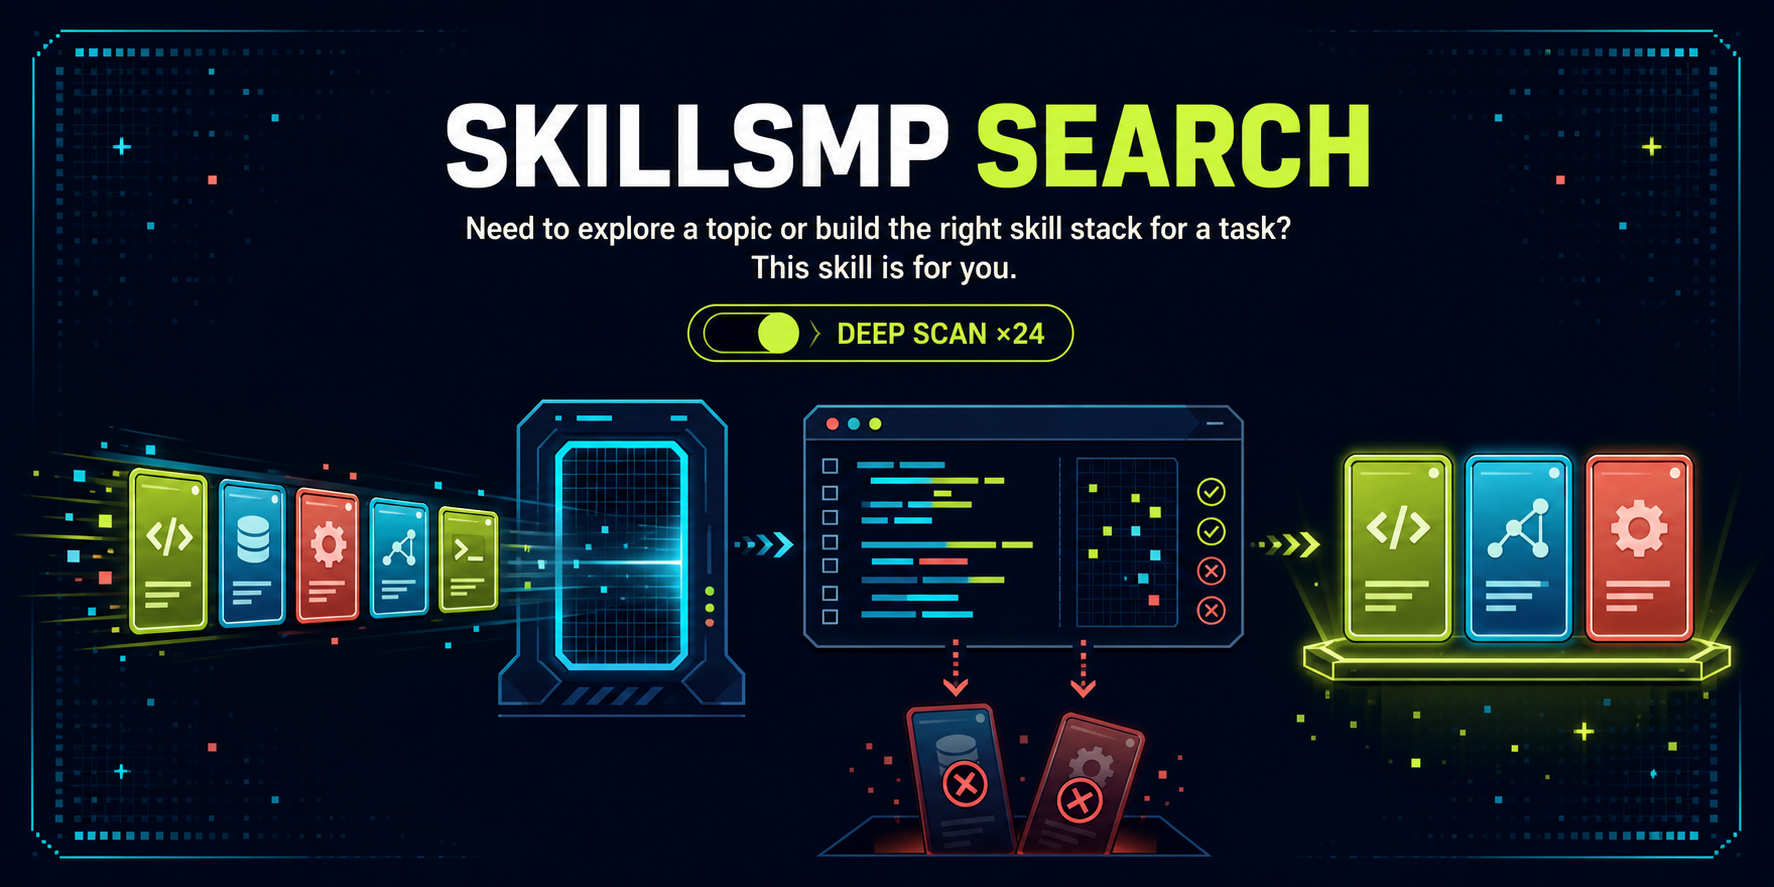
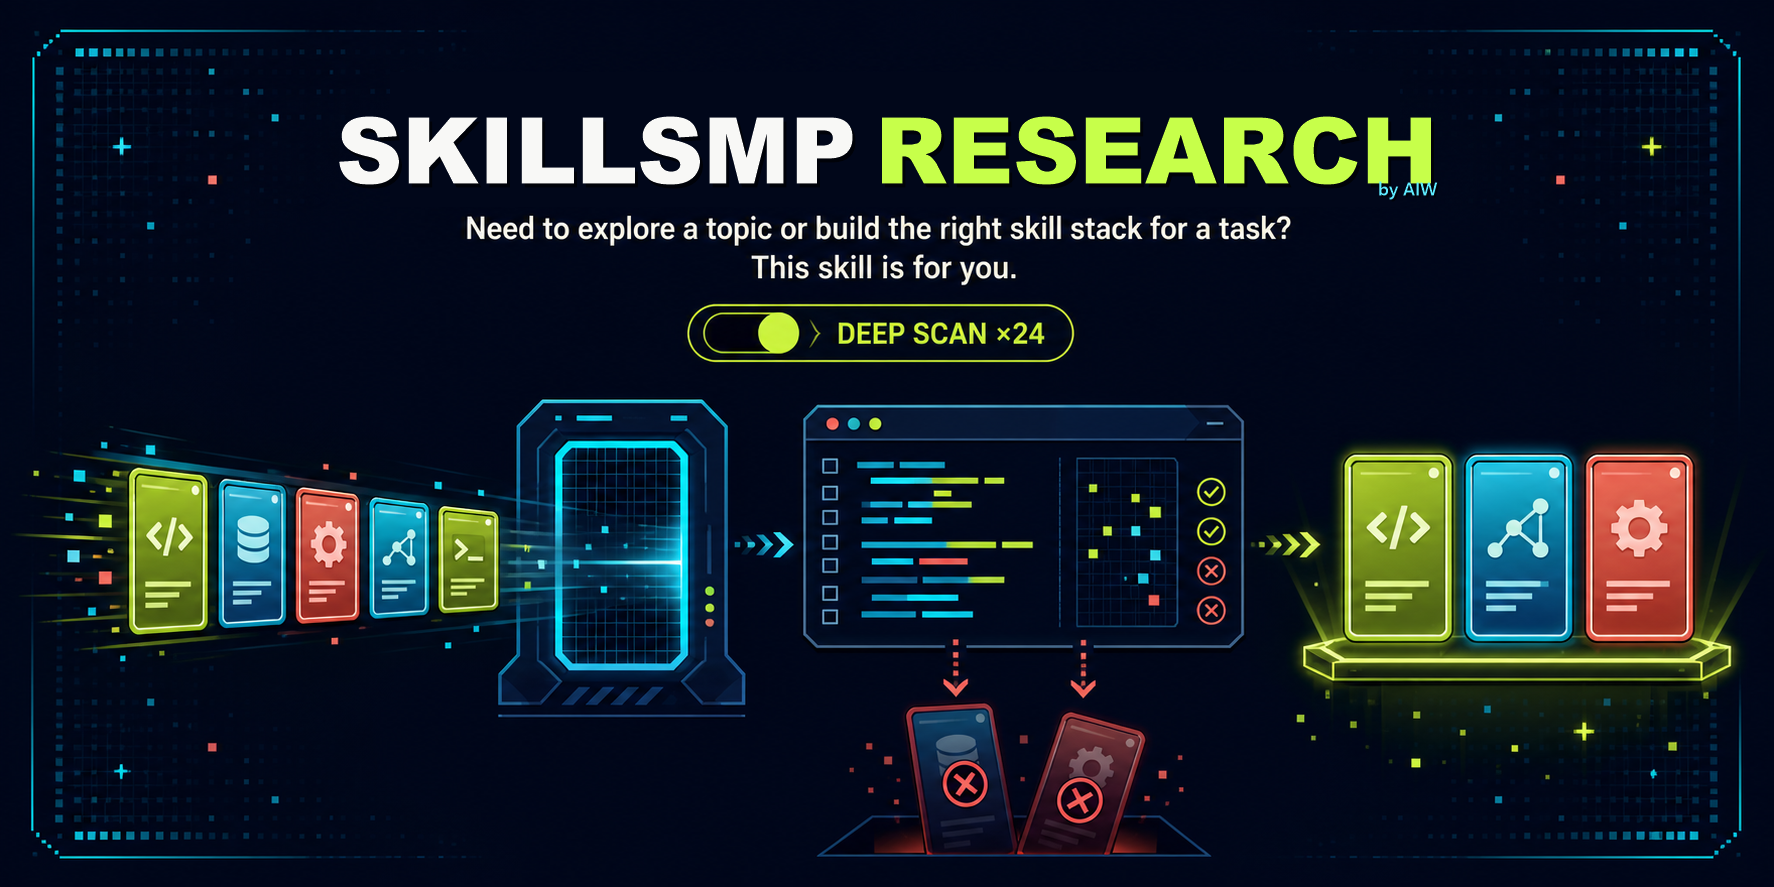
docs: brand SkillsMP Research by AIW

Changed region(s): [[0.186, 0.0913, 0.8061, 0.2435]]

diff --git a/README.md b/README.md
@@ -1,8 +1,8 @@
 <p align="center">
-  <img src="assets/hero.png" alt="SkillsMP Search arcade showing skill cards moving from search to source inspection and final recommendations" width="100%">
+  <img src="assets/hero.png" alt="SkillsMP Research arcade showing skill cards moving from search to source inspection and final recommendations" width="100%">
 </p>
 
-# SkillsMP Search
+# SkillsMP Research by AIW
 
 [![Validate](https://github.com/FixAdmin/skillsmp-search/actions/workflows/validate.yml/badge.svg)](https://github.com/FixAdmin/skillsmp-search/actions/workflows/validate.yml)
 [![Agent Skills](https://img.shields.io/badge/Agent%20Skills-compatible-C7FF4A)](https://agentskills.io)
@@ -11,7 +11,9 @@
 
 > **Need to explore a topic or build the right skill stack for a task? This skill is for you.**
 
-Marketplace metadata can find candidates. SkillsMP Search reads the source, removes duplicates, compares the methods, and tells you what is actually useful.
+Marketplace metadata can find candidates. SkillsMP Research reads the source, removes duplicates, compares the methods, and tells you what is actually useful.
+
+SkillsMP Research is an independent project that uses SkillsMP; it is not affiliated with or endorsed by SkillsMP.
 
 ## What it does
 
@@ -185,4 +187,4 @@ For security problems, please follow [SECURITY.md](SECURITY.md) instead of openi
 
 ## License
 
-SkillsMP Search is available under the [MIT License](LICENSE).
+SkillsMP Research is available under the [MIT License](LICENSE).

diff --git a/skills/skillsmp-search/SKILL.md b/skills/skillsmp-search/SKILL.md
@@ -3,7 +3,7 @@ name: skillsmp-search
 description: Find, search, and compare public agent skills in SkillsMP by evaluating their source content, useful method delta, and alignment with current practice. Use only when the user explicitly asks to find a skill, search SkillsMP, compare available skills, or identify the best skill for a stated task.
 ---
 
-# SkillsMP Search
+# SkillsMP Research
 
 Run this workflow only after an explicit user request to find or compare skills. If the user did not request skill discovery, stop and continue without searching SkillsMP.
 

diff --git a/CONTRIBUTING.md b/CONTRIBUTING.md
@@ -1,6 +1,6 @@
 # Contributing
 
-Thanks for helping SkillsMP Search make better recommendations.
+Thanks for helping SkillsMP Research make better recommendations.
 
 Useful contributions include ranking edge cases, clearer evaluation rules, portability fixes, documentation improvements, and tests for unexpected SkillsMP responses.
 
